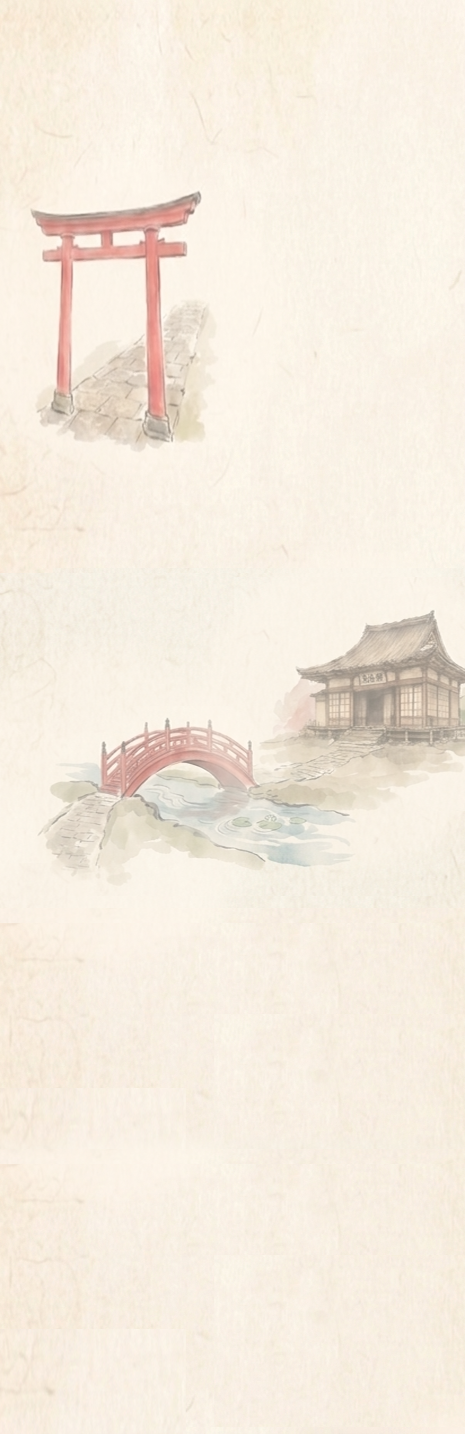
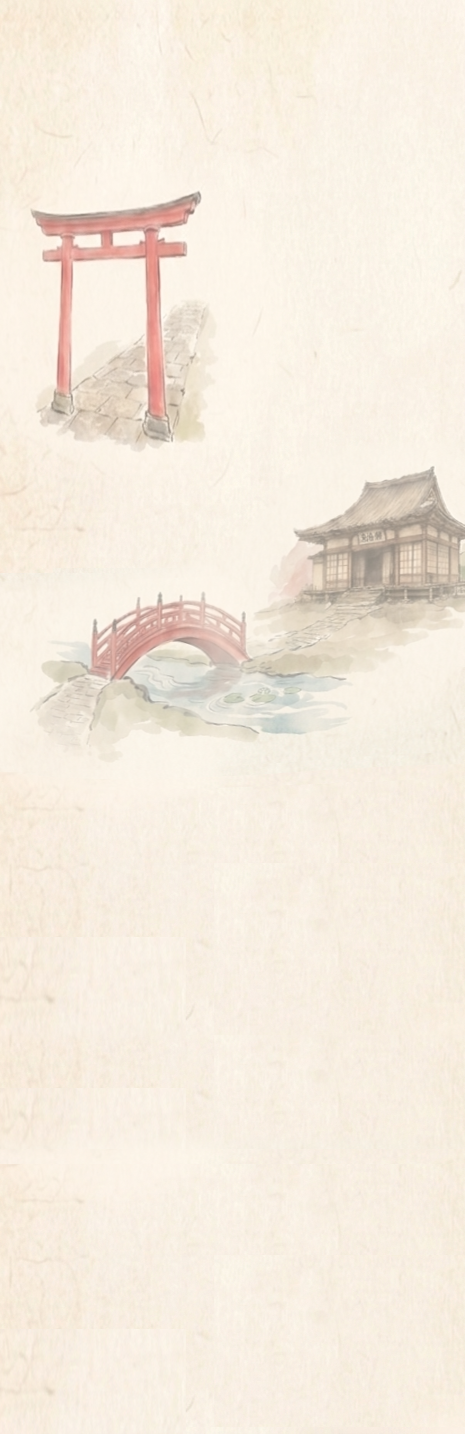
Refactor: Adjust Roots text and correct alignments on mobile

Changed region(s): [[0.0903, 0.3068, 1.0, 0.6137]]

diff --git a/src/styles/pages/_roots.scss b/src/styles/pages/_roots.scss
@@ -5,7 +5,7 @@
   overflow: hidden;
 
   padding: 0 1.5rem;
-  padding-bottom: 9rem;
+  padding-bottom: 2rem;
   display: flex;
   flex-direction: column;
   font-family: $font-body;
@@ -27,33 +27,6 @@
     background: linear-gradient(to bottom, #a8d5e2 0%, transparent 100%);
     z-index: 1;
     pointer-events: none;
-  }
-
-  /* CONTENEDOR DE CAPAS */
-  &__layers {
-    position: absolute;
-    top: 0;
-    left: 0;
-    width: 100%;
-    height: 100%;
-    pointer-events: none; // Para que no te impida hacer scroll o click
-  }
-
-  &__layer {
-    position: absolute;
-
-    &--torii {
-      top: 8rem;
-      width: 15rem;
-    }
-
-    &--bridge {
-      top: 33rem;
-      right: 1rem;
-      left: auto;
-      width: 15rem;
-      transform: translateY(-50%);
-    }
   }
 
   /*  TÍTULO  */
@@ -84,14 +57,14 @@
   &__story {
     display: flex;
     flex-direction: column;
-    margin-top: 1rem;
+    margin-top: 1.9rem;
   }
 
   &__text {
     font-weight: bolder;
     max-width: 65%;
     line-height: 1.6;
-    margin-bottom: 0.5rem;
+    margin-bottom: 0.7rem;
     opacity: 0;
     animation: fadeInUp 1s ease forwards;
 
@@ -104,18 +77,17 @@
     }
 
     &--left {
-      align-self: flex-end;
-      text-align: right;
+      text-align: left;
       animation-delay: 1s;
       padding-bottom: 1rem;
     }
 
     &--center {
-      align-self: flex-start;
-      text-align: left;
-      max-width: 90%;
-      color: $tatami-borde;
+      align-self: center;
+      text-align: center;
+      max-width: 22rem;
       font-weight: 700;
+      margin-top: 4.5rem;
       animation-delay: 1.6s;
     }
   }

diff --git a/src/pages/Roots.jsx b/src/pages/Roots.jsx
@@ -24,9 +24,10 @@ function Roots() {
         </p>
 
         <p className="roots__text roots__text--center">
-          Inspirada en la calma de un jardín Zen, me esfuerzo por escribir
-          código limpio y ordenado, basándome en la disciplina y el aprendizaje,
-          un camino que inicié en Adalab y que sigo recorriendo cada día.
+          Busco cultivar un código limpio y ordenado, inspirada en la cultura
+          japonesa por el cuidado minucioso de los detalles, la paciencia y la
+          búsqueda del equilibrio; un camino que nació en Adalab y que sigo
+          recorriendo cada día.
         </p>
       </div>
     </section>